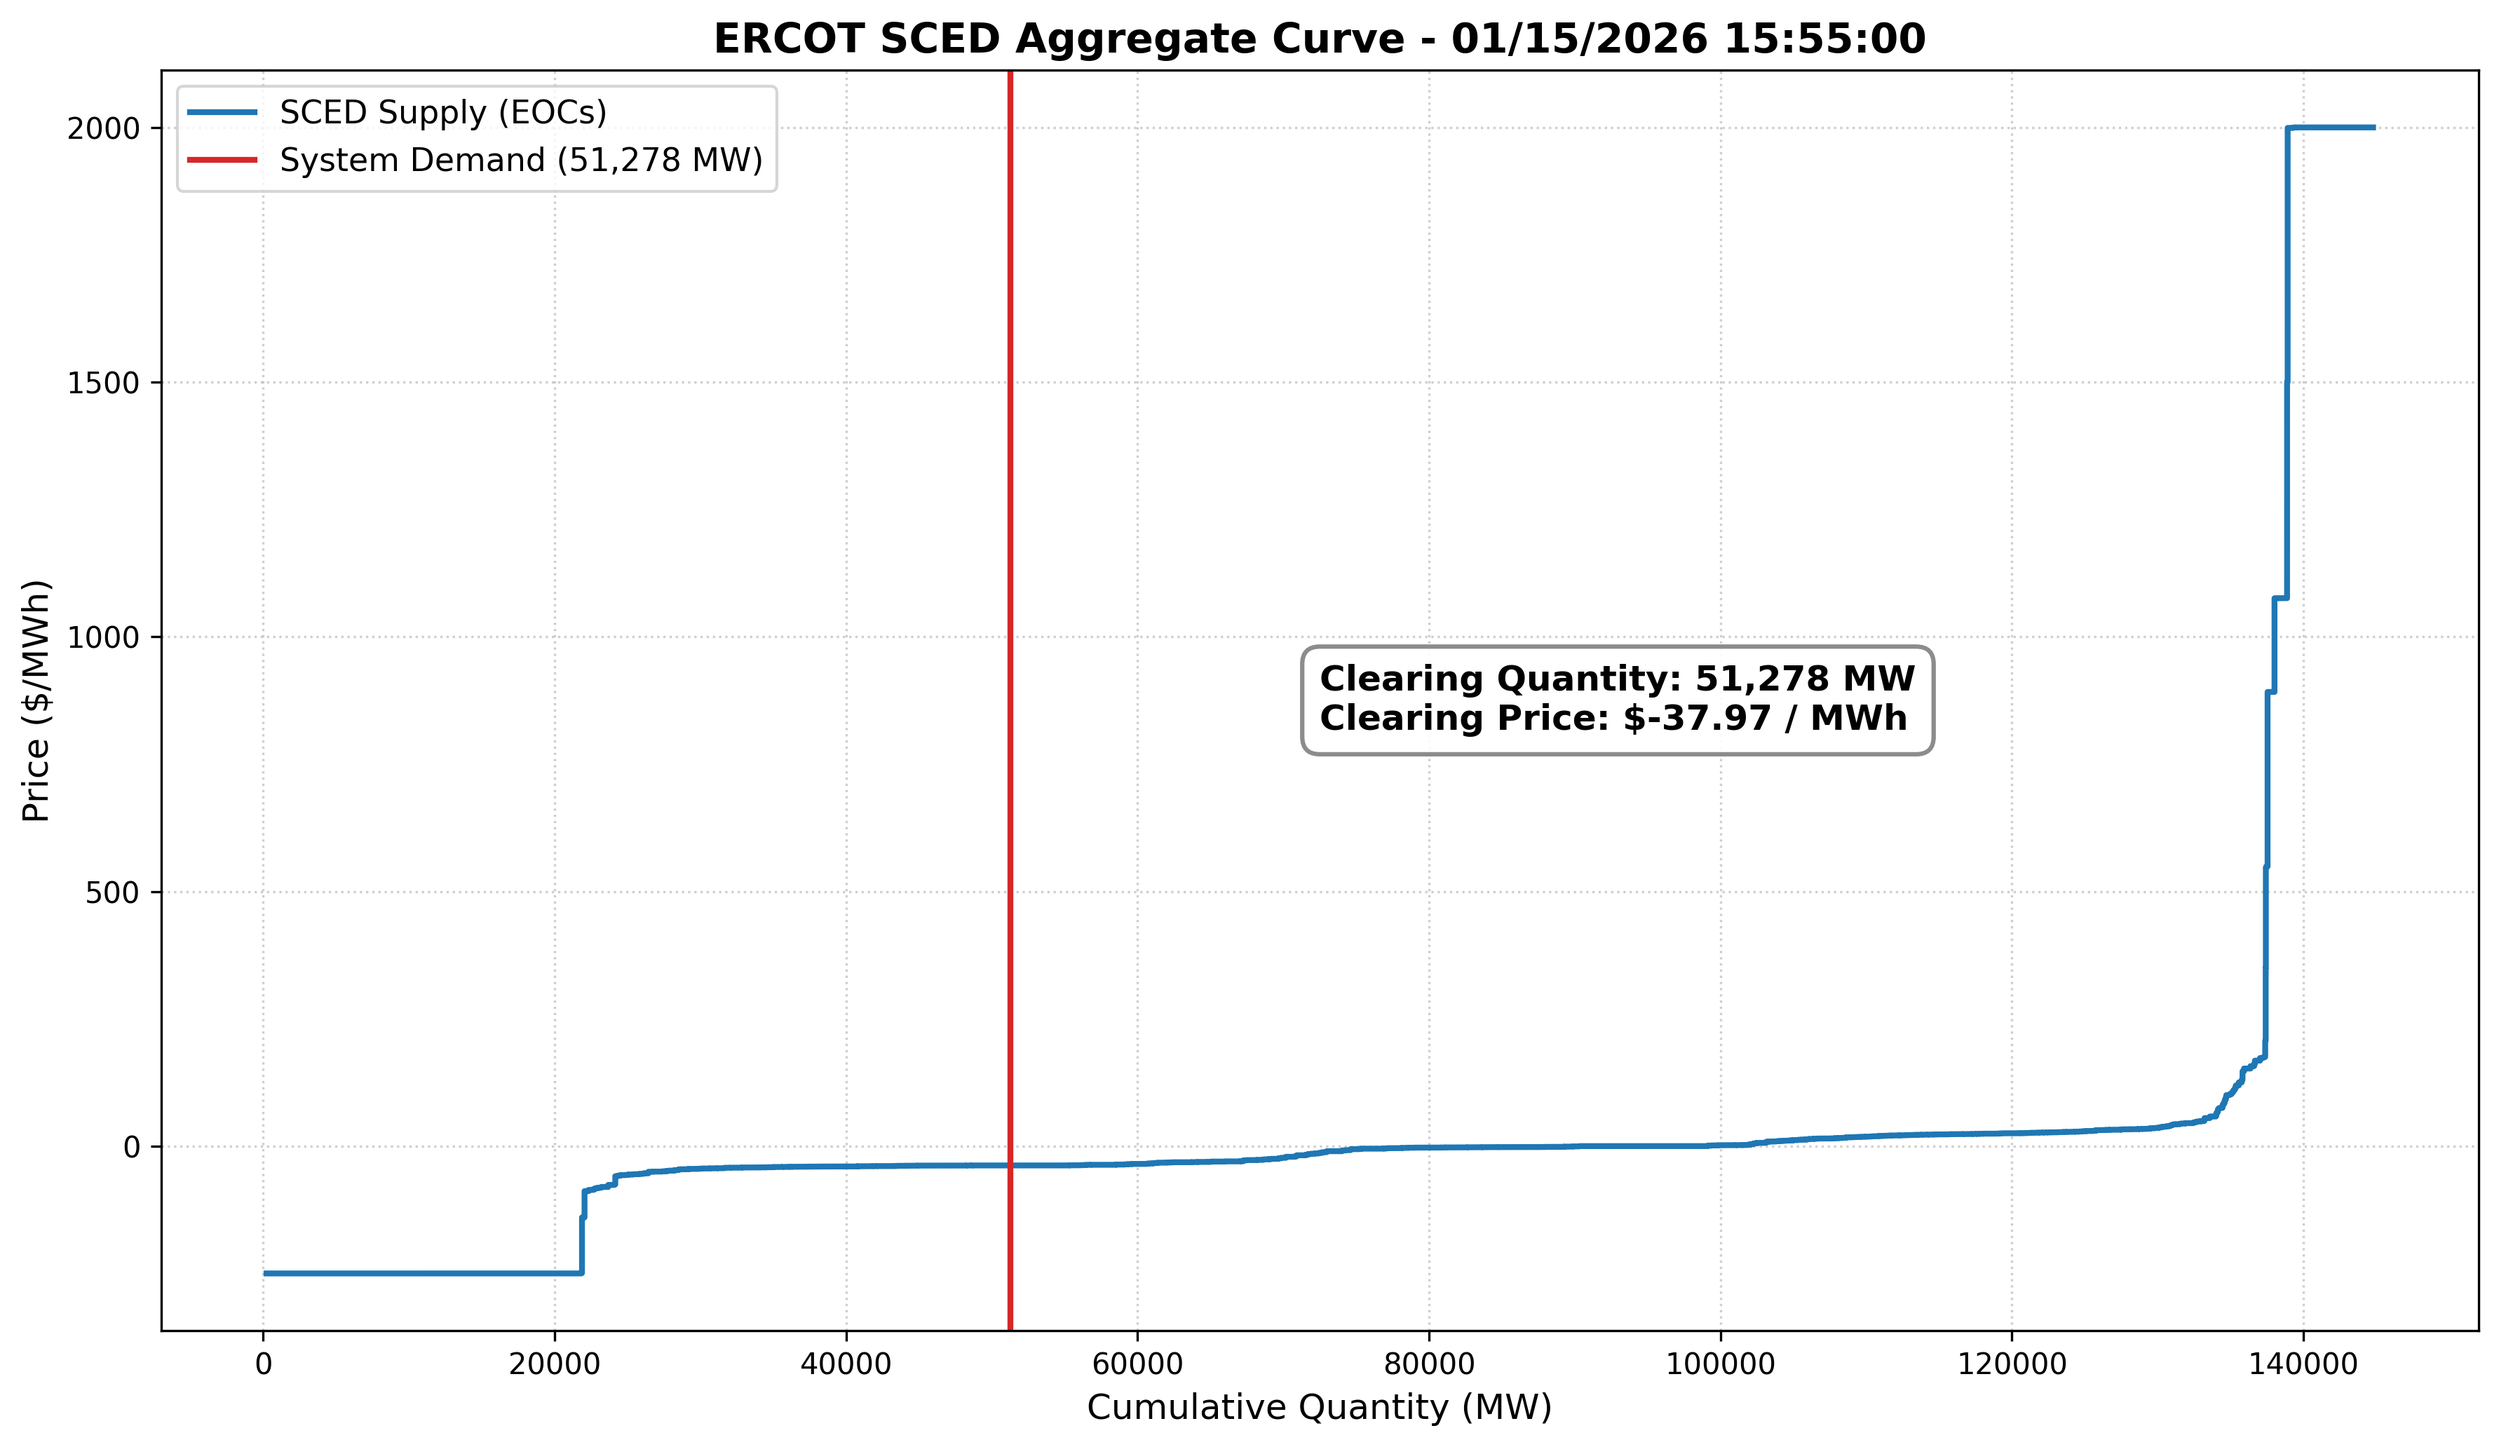
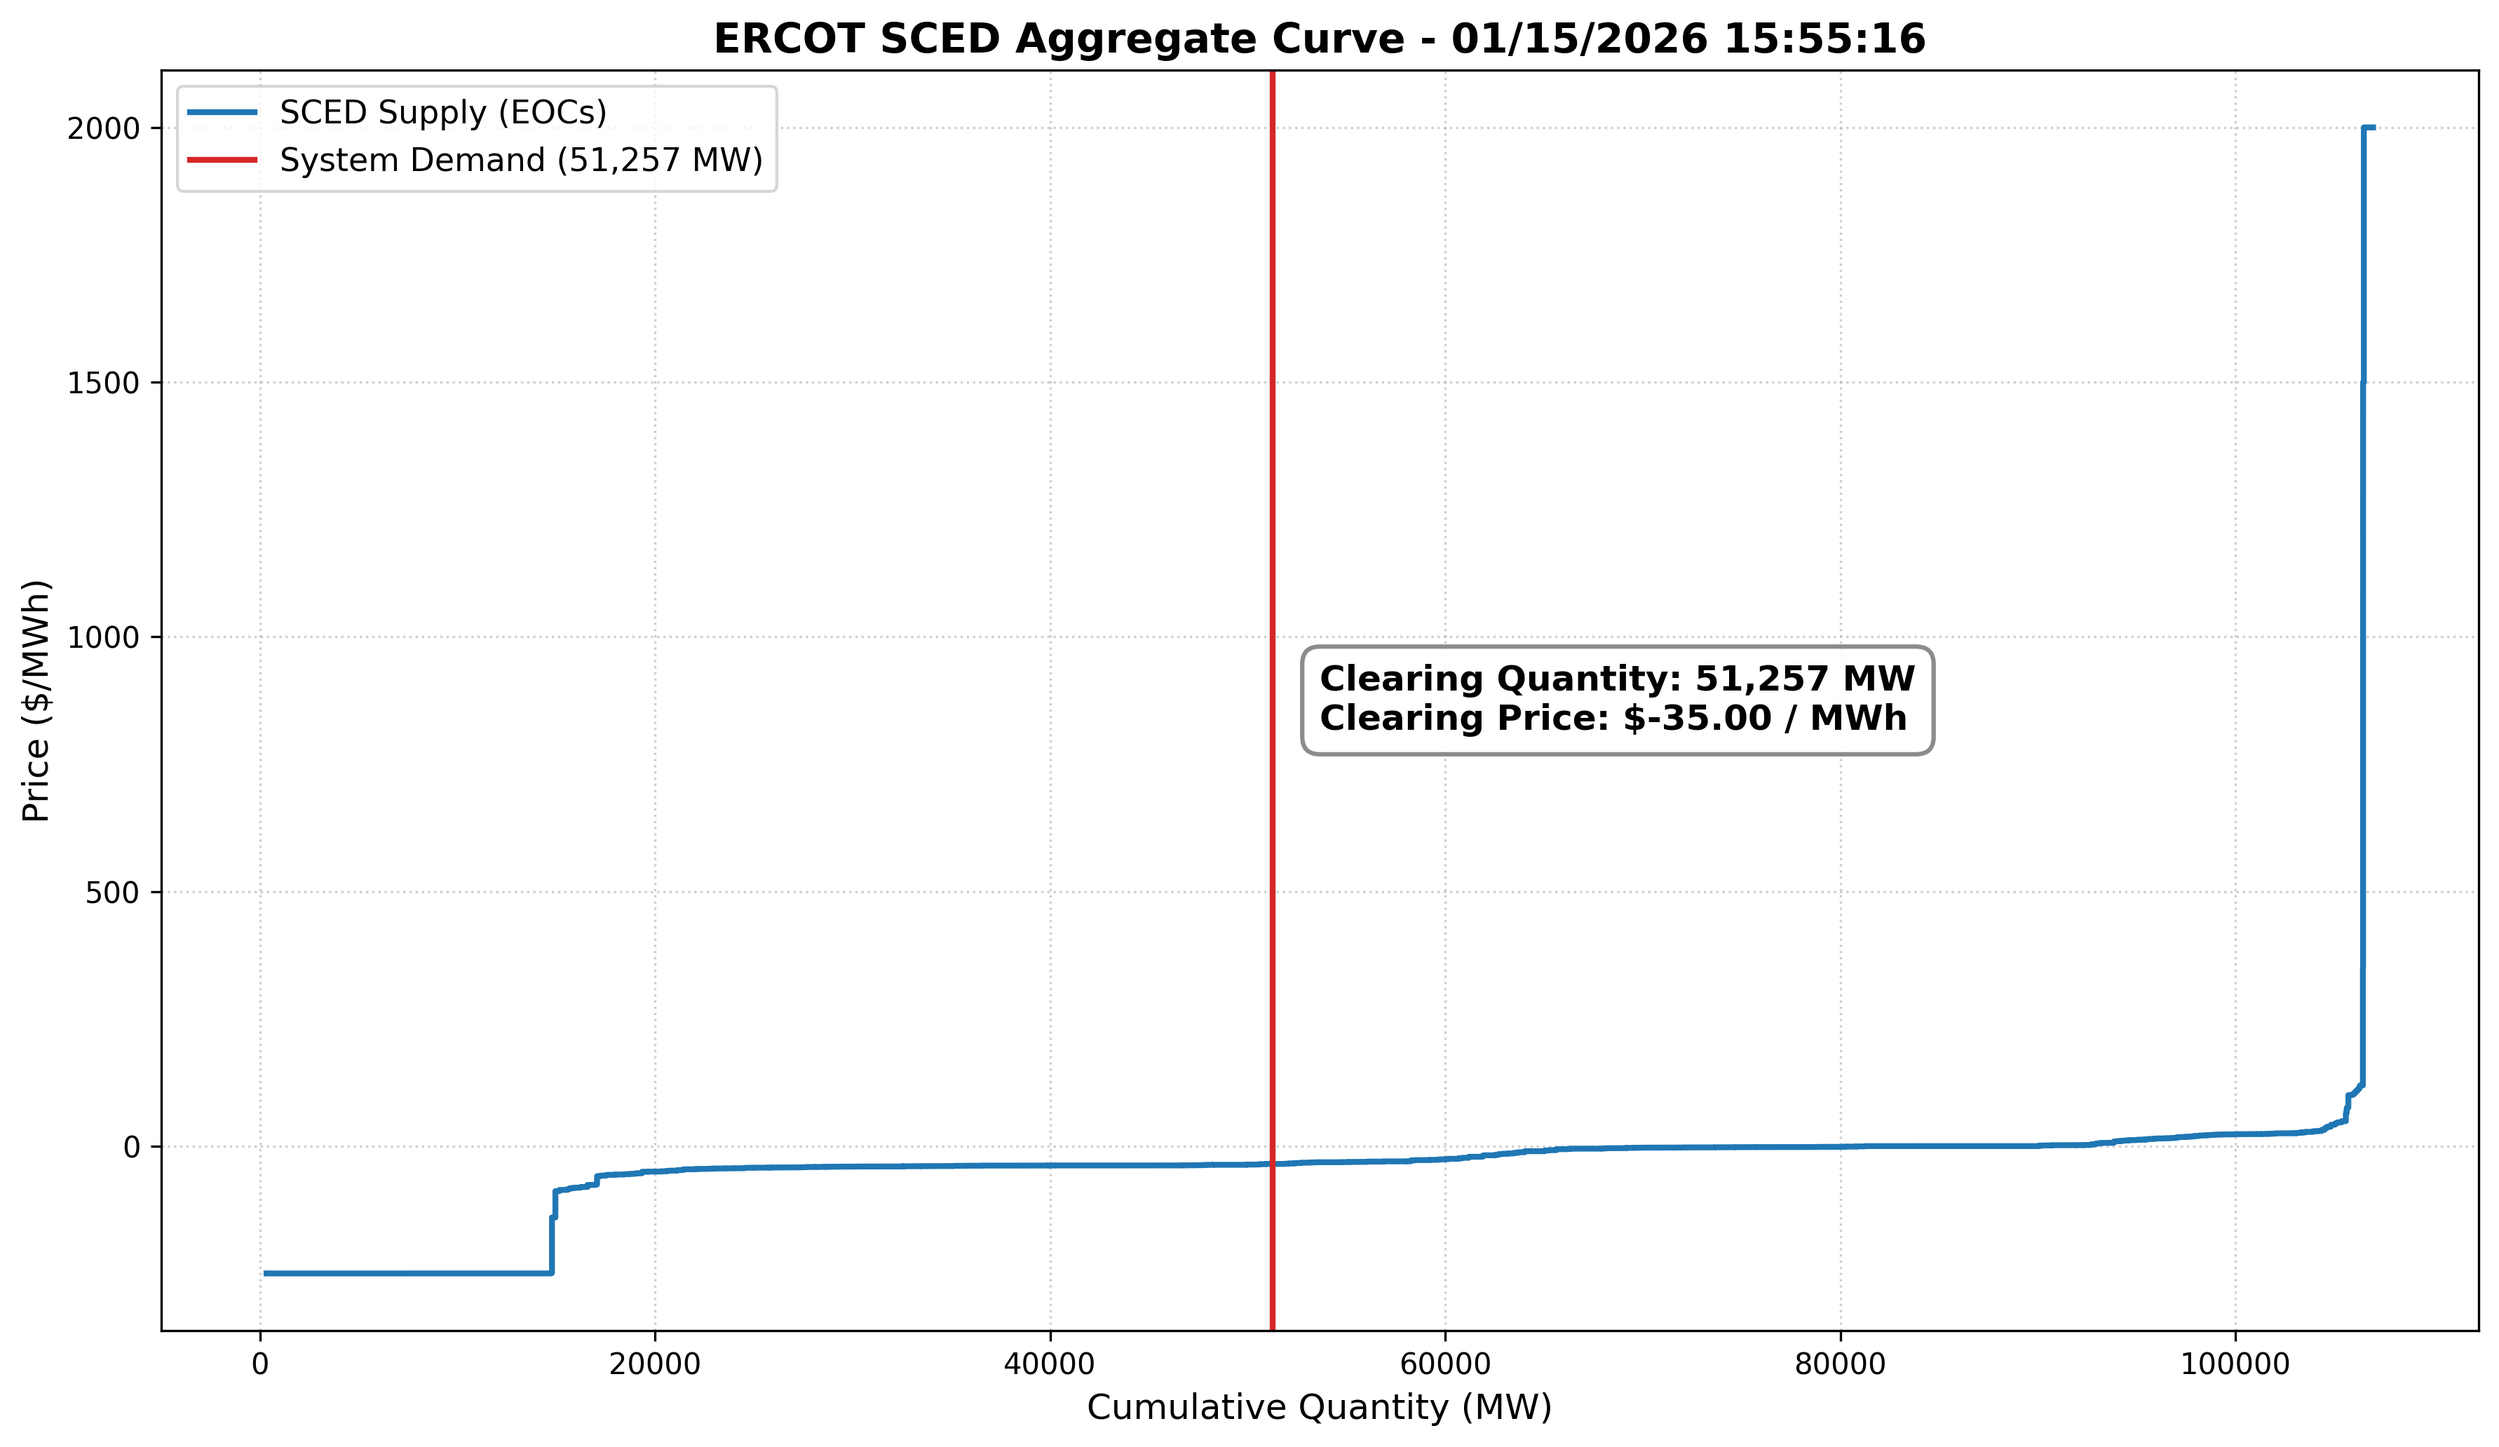
ercot update

diff --git a/src/ERCOT_AggDemand&Supply.py b/src/ERCOT_AggDemand&Supply.py
@@ -6,8 +6,8 @@ import re
 # 1. CONFIGURATION: Set your targets and files
 # ==========================================
 TARGET_DATE = '1/15/2026'  
-TARGET_HOUR = 21 
-TARGET_SCED_TIMESTAMP = '01/15/2026 20:55:00' 
+TARGET_HOUR = 16 
+TARGET_SCED_TIMESTAMP = '01/15/2026 15:55:00' 
 
 # DAM File Names
 FILE_DAM_BIDS = '/Users/dannysalingerbrown/Desktop/Energy-Graphs-Misc/data/March16DAM_60Day/60d_DAM_EnergyBids-16-MAR-26.csv'
